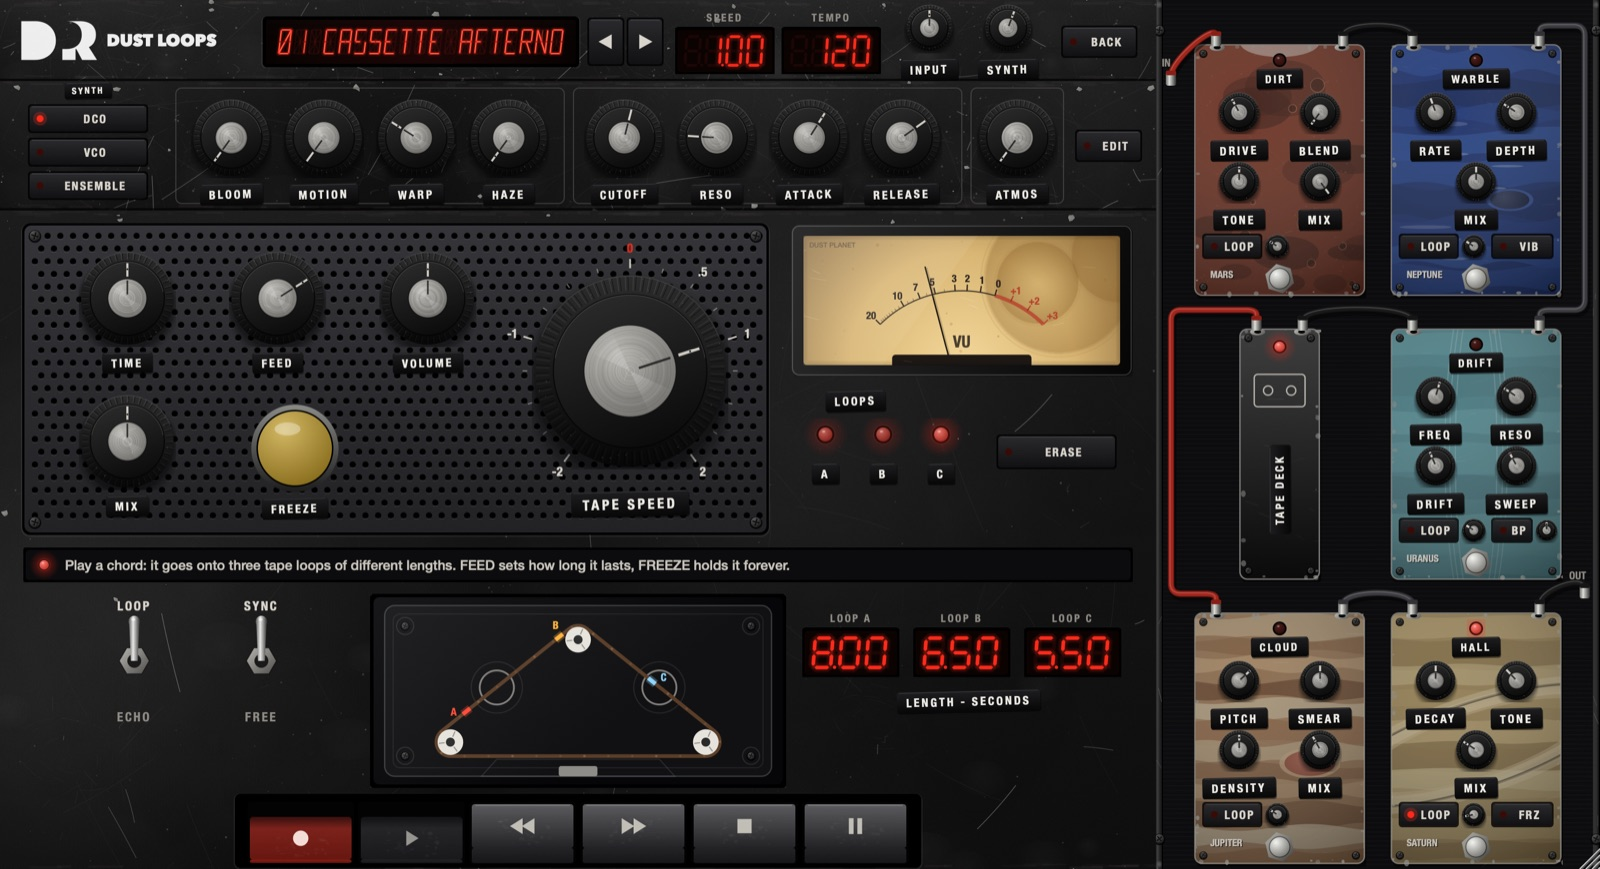
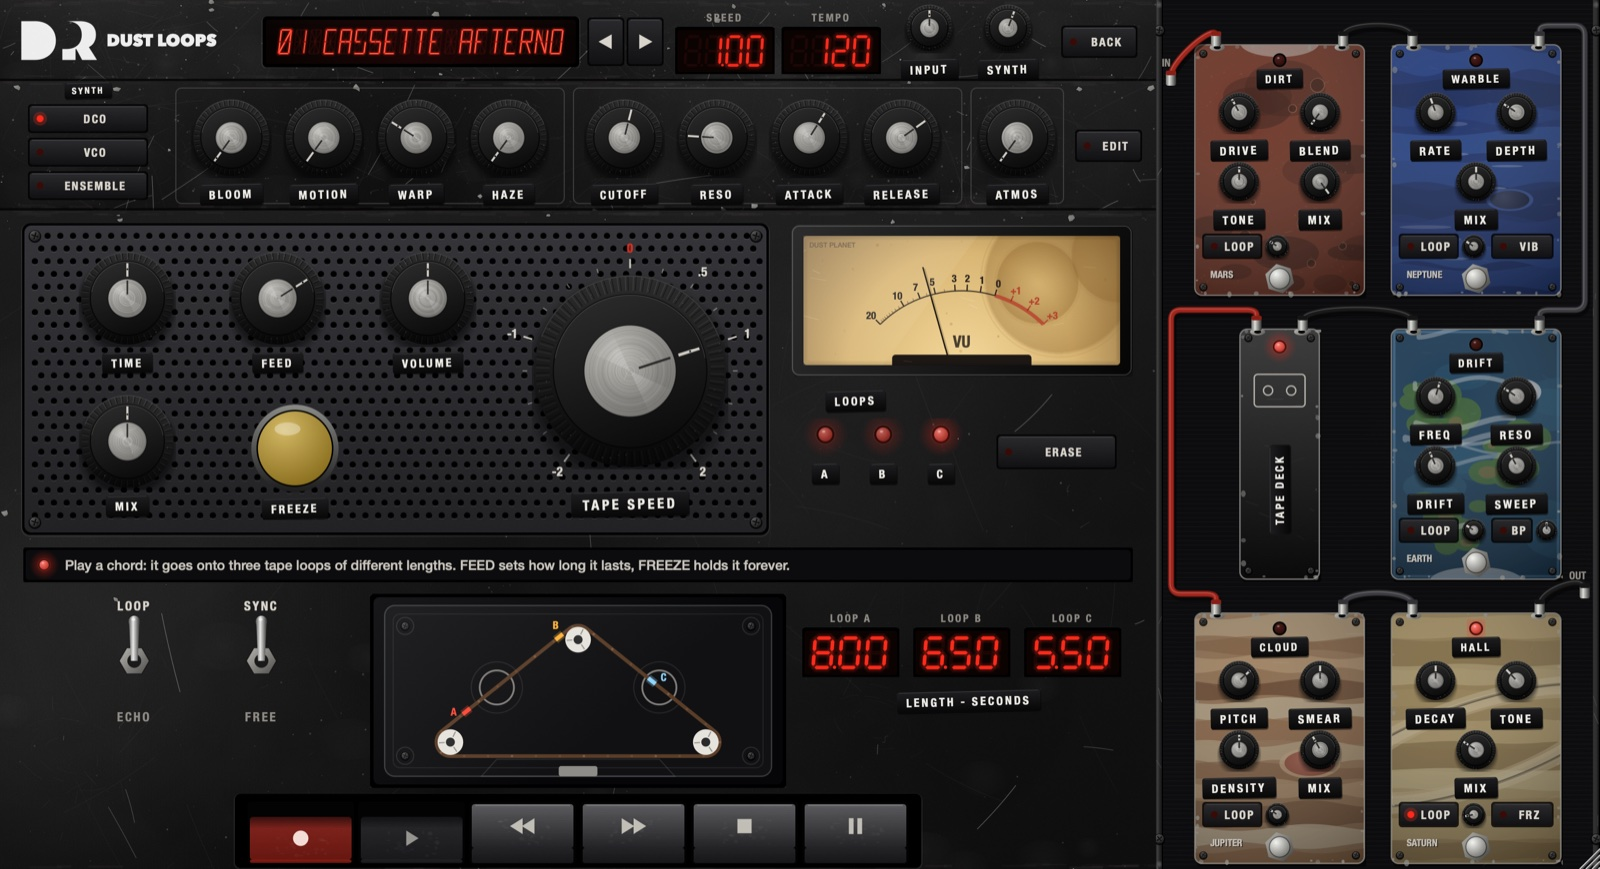
Loop gain governor stops recording loops building up; DRIFT pedal becomes Earth

Changed region(s): [[0.8438, 0.3728, 1.0, 0.6835]]

diff --git a/Source/Gui/PedalBoardView.cpp b/Source/Gui/PedalBoardView.cpp
@@ -41,7 +41,7 @@ const std::array<PedalDef, 5>& pedalDefs()
             { warble::depth, "Depth", "DEPTH: from gentle shimmer to seasick." },
             { warble::mix, "Mix", "MIX: how much wobble." } },
           warble::mode, "Vib", "VIB: lit = vibrato (pure pitch wobble). Off = chorus (wobble mixed with the dry sound).", nullptr, nullptr },
-        { "Drift", "Uranus", "DRIFT FILTER (Uranus): a resonant filter that sweeps very slowly on its own. Drag the pedal to move it.", Colour (0xff1d2a3a),
+        { "Drift", "Earth", "DRIFT FILTER (Earth): a resonant filter that sweeps very slowly on its own. Drag the pedal to move it.", Colour (0xff1d2a3a),
           { { drift::freq, "Freq", "FREQ: where the filter sits." },
             { drift::reso, "Reso", "RESO: resonance. High = whistling, vocal sweeps." },
             { drift::lfoRate, "Drift", "DRIFT: speed of the slow sweep, down to once every two minutes." },
@@ -132,7 +132,7 @@ void drawEnclosure (Graphics& g, Rectangle<float> b, Colour paint, int seed,
 
 //==============================================================================
 // Planet paint jobs: each pedal's face is a planet's surface, kept dark enough for the controls to read.
-enum class Planet { mars, neptune, uranus, jupiter, saturn };
+enum class Planet { mars, neptune, earth, jupiter, saturn };
 
 // Horizontal cloud bands with wavy edges.
 void drawBands (Graphics& g, Rectangle<float> a, const std::vector<Colour>& colours, int count, float wave, Random& r)
@@ -208,14 +208,53 @@ void drawPlanetSurface (Graphics& g, Rectangle<float> a, Planet planet, int seed
             drawStorm (g, { a.getX() + a.getWidth() * 0.7f, a.getY() + a.getHeight() * 0.62f }, 34.0f, 16.0f,
                        Colour (0xff0b1a48), Colour (0xff3d63c0));
             break;
-        case Planet::uranus:
+        case Planet::earth:
         {
-            g.fillAll (Colour (0xff4f8e98));
-            drawBands (g, a, { Colour (0xff5c9ea7), Colour (0xff467f89), Colour (0xff63a8b0) }, 7, 1.5f, r);
-            // Uranus's rings stand on end
-            g.setColour (Colour (0xffd8f0f2).withAlpha (0.28f));
-            for (auto k : { 0.0f, 5.0f, 9.0f })
-                g.drawEllipse (a.getCentreX() - 18.0f - k, a.getY() - 30.0f - k * 2.0f, 36.0f + k * 2.0f, a.getHeight() + 60.0f + k * 4.0f, 1.0f);
+            g.fillAll (Colour (0xff123a5c)); // deep ocean
+            for (int i = 0; i < 10; ++i)     // shallower water
+            {
+                const auto w = 30.0f + 50.0f * r.nextFloat();
+                g.setColour (Colour (0xff1f5a7e).withAlpha (0.35f + 0.2f * r.nextFloat()));
+                g.fillEllipse (a.getX() + r.nextFloat() * a.getWidth() - w * 0.3f, a.getY() + r.nextFloat() * a.getHeight(), w, w * 0.5f);
+            }
+            // Continents: clusters of blobs, green with dry brown interiors
+            const Point<float> landCentres[] { { 0.25f, 0.32f }, { 0.72f, 0.5f }, { 0.35f, 0.78f } };
+            for (auto lc : landCentres)
+            {
+                const auto c = Point<float> (a.getX() + lc.x * a.getWidth(), a.getY() + lc.y * a.getHeight());
+                for (int k = 0; k < 9; ++k)
+                {
+                    const auto w = 14.0f + 26.0f * r.nextFloat(), h = w * (0.5f + 0.5f * r.nextFloat());
+                    const auto x = c.x + (r.nextFloat() - 0.5f) * 50.0f, y = c.y + (r.nextFloat() - 0.5f) * 36.0f;
+                    g.setColour (Colour (0xff3d6b34).withAlpha (0.9f));
+                    g.fillEllipse (x - w * 0.5f, y - h * 0.5f, w, h);
+                    if (k % 3 == 0)
+                    {
+                        g.setColour (Colour (0xff7d6a40).withAlpha (0.7f));
+                        g.fillEllipse (x - w * 0.25f, y - h * 0.25f, w * 0.5f, h * 0.5f);
+                    }
+                }
+            }
+            // Weather: thin white cloud swirls drifting across
+            for (int i = 0; i < 8; ++i)
+            {
+                const auto y0 = a.getY() + r.nextFloat() * a.getHeight();
+                const auto x0 = a.getX() - 10.0f + r.nextFloat() * a.getWidth() * 0.6f;
+                const auto len = 50.0f + 80.0f * r.nextFloat(), phase = r.nextFloat() * 6.28f;
+                Path swirl;
+                swirl.startNewSubPath (x0, y0);
+                for (float t = 0.0f; t <= len; t += 4.0f)
+                    swirl.lineTo (x0 + t, y0 + 5.0f * std::sin (t * 0.06f + phase));
+                g.setColour (Colours::white.withAlpha (0.25f + 0.25f * r.nextFloat()));
+                g.strokePath (swirl, PathStrokeType (2.0f + 3.0f * r.nextFloat(), PathStrokeType::curved, PathStrokeType::rounded));
+            }
+            drawStorm (g, { a.getX() + a.getWidth() * 0.78f, a.getY() + a.getHeight() * 0.25f }, 26.0f, 18.0f,
+                       Colour (0xffeef4f8).withAlpha (0.55f), Colours::white.withAlpha (0.2f)); // a cyclone
+            g.setColour (Colour (0xffeef4f8).withAlpha (0.6f)); // polar ice
+            g.fillEllipse (a.getCentreX() - 40.0f, a.getBottom() - 10.0f, 80.0f, 24.0f);
+            // A thin blue atmosphere along the edge
+            g.setColour (Colour (0xff7fc4ff).withAlpha (0.35f));
+            g.drawRect (a.reduced (1.0f), 2.0f);
             break;
         }
         case Planet::jupiter:

diff --git a/tests/RobustnessTests.cpp b/tests/RobustnessTests.cpp
@@ -53,6 +53,47 @@ void prepareAt (DustLoopsProcessor& p, double rate, int block = blockSize)
     p.prepareToPlay (rate, block);
 }
 
+// Worst case for feedback: FEED at max and every pedal on and in the loop at full amount. Records a chord
+// on loop A, keeps A recording (or not), plays nothing more, and returns the tape level at the start
+// and a minute later.
+std::pair<float, float> buildUp (DustLoopsProcessor& p, bool keepRecording)
+{
+    prepareAt (p, 48000.0);
+    setParam (p, ID::tape::mix, 1.0f);
+    setParam (p, ID::tape::feed, 1.0f);
+    setParam (p, ID::synth::release, 0.05f);
+    for (int i = 0; i < 5; ++i)
+    {
+        setParam (p, ID::pedal::id (i, ID::pedal::on), 1.0f);
+        setParam (p, ID::pedal::id (i, ID::pedal::loop), 1.0f);
+        setParam (p, ID::pedal::id (i, ID::pedal::loopAmt), 1.0f);
+    }
+    setParam (p, ID::loop::rec[1], 0.0f);
+    setParam (p, ID::loop::rec[2], 0.0f);
+
+    juce::AudioBuffer<float> buffer (2, blockSize);
+    juce::MidiBuffer midi;
+    for (int note : { 48, 55, 60, 64 })
+        midi.addEvent (juce::MidiMessage::noteOn (1, note, 0.6f), 0);
+    for (int b = 0; b < (int) (2.0 * 48000.0 / blockSize); ++b)
+    {
+        buffer.clear();
+        p.processBlock (buffer, midi);
+        midi.clear();
+    }
+    for (int note : { 48, 55, 60, 64 })
+        midi.addEvent (juce::MidiMessage::noteOff (1, note), 0);
+    buffer.clear();
+    p.processBlock (buffer, midi);
+    if (! keepRecording)
+        setParam (p, ID::loop::rec[0], 0.0f);
+
+    const auto start = tapeLevel (p, 48000.0, 10.0f);
+    for (int pass = 0; pass < 5; ++pass)
+        tapeLevel (p, 48000.0, 10.0f);
+    return { start, tapeLevel (p, 48000.0, 10.0f) };
+}
+
 class RobustnessTests : public juce::UnitTest
 {
 public:
@@ -165,41 +206,17 @@ public:
         beginTest ("with recording off, the tape never builds up, even at full FEED with every pedal in the loop");
         {
             DustLoopsProcessor p;
-            prepareAt (p, 48000.0);
-            setParam (p, ID::tape::mix, 1.0f);
-            setParam (p, ID::tape::feed, 1.0f);
-            for (int i = 0; i < 5; ++i)
-            {
-                setParam (p, ID::pedal::id (i, ID::pedal::on), 1.0f);
-                setParam (p, ID::pedal::id (i, ID::pedal::loop), 1.0f);
-                setParam (p, ID::pedal::id (i, ID::pedal::loopAmt), 1.0f);
-            }
-
-            // Record a chord on loop A only, then stop recording.
-            setParam (p, ID::loop::rec[1], 0.0f);
-            setParam (p, ID::loop::rec[2], 0.0f);
-            juce::AudioBuffer<float> buffer (2, blockSize);
-            juce::MidiBuffer midi;
-            for (int note : { 48, 55, 60, 64 })
-                midi.addEvent (juce::MidiMessage::noteOn (1, note, 0.6f), 0);
-            for (int b = 0; b < (int) (2.0 * 48000.0 / blockSize); ++b)
-            {
-                buffer.clear();
-                p.processBlock (buffer, midi);
-                midi.clear();
-            }
-            for (int note : { 48, 55, 60, 64 })
-                midi.addEvent (juce::MidiMessage::noteOff (1, note), 0);
-            buffer.clear();
-            p.processBlock (buffer, midi);
-            setParam (p, ID::loop::rec[0], 0.0f);
-
-            const auto start = tapeLevel (p, 48000.0, 10.0f);
-            for (int pass = 0; pass < 5; ++pass)
-                tapeLevel (p, 48000.0, 10.0f);
-            const auto later = tapeLevel (p, 48000.0, 10.0f);
+            const auto [start, later] = buildUp (p, false);
             expectGreaterThan (start, 0.001f, "nothing was recorded");
             expectLessThan (later, start * 1.05f, "the tape got louder with recording off");
+        }
+
+        beginTest ("a recording loop doesn't build up on its own either, at full FEED with every pedal in the loop");
+        {
+            DustLoopsProcessor p;
+            const auto [start, later] = buildUp (p, true);
+            expectGreaterThan (start, 0.001f, "nothing was recorded");
+            expectLessThan (later, start * 1.1f, "the tape got louder while recording silence");
         }
 
         beginTest ("presets never change which loops record");

diff --git a/Source/Tape/TapeMachine.h b/Source/Tape/TapeMachine.h
@@ -13,7 +13,8 @@
 // what was recorded at 0.5x plays an octave up at 1x, a stopping tape slides down in pitch and goes
 // quiet. Every time a cell passes the head it is played, worn (age, saturation, dropouts) and scaled
 // by FEED, so an unarmed loop can only stay the same or fade. Only an armed (recording) loop gets
-// anything added: new input, record hiss and the pedals in the loop, limited so it can never run away.
+// anything added: new input, record hiss and the pedals in the loop. A governor keeps what is
+// re-recorded from the old tape no louder than it was, so the loop never builds up on its own.
 //
 // All memory is allocated in prepare(); process() never allocates, locks or does I/O.
 namespace dust
@@ -97,6 +98,7 @@ public:
         for (auto& l : loops)
         {
             l.limiter.prepare (sr);
+            l.governor.prepare (sr);
             l.wear = {};
             l.clearCursor = -1;
         }
@@ -309,6 +311,7 @@ private:
         int length = 1;
         double position = 0.0;
         FeedbackLimiter limiter;
+        LoopGainGovernor governor;
         WearState wear;
         int clearCursor = -1; // >= 0 while a clear is in progress
     };
@@ -458,14 +461,19 @@ private:
                 {
                     const auto cell = (size_t) wrap (dir > 0 ? k0 + j : k0 - j + 1, len) * 2;
                     const auto frac = (float) j / (float) steps;
-                    auto cl = l.data[cell], cr = l.data[cell + 1];
+                    const auto oldL = l.data[cell], oldR = l.data[cell + 1];
+                    auto cl = oldL, cr = oldR;
                     wearCell (l.wear, cl, cr, wear, ls.armed);
                     cl *= feed;
                     cr *= feed;
                     if (ls.armed)
                     {
-                        cl += injL + prevIn[0] + frac * (inL - prevIn[0]);
-                        cr += injR + prevIn[1] + frac * (inR - prevIn[1]);
+                        // The pedals' copy goes on with the old tape, never louder than it was.
+                        cl += injL;
+                        cr += injR;
+                        const auto g = l.governor.process (oldL, oldR, cl, cr);
+                        cl = cl * g + prevIn[0] + frac * (inL - prevIn[0]);
+                        cr = cr * g + prevIn[1] + frac * (inR - prevIn[1]);
                     }
                     l.limiter.process (cl, cr);
                     l.data[cell] = cl;

diff --git a/Source/DSP/Safety.h b/Source/DSP/Safety.h
@@ -64,6 +64,41 @@ private:
 };
 
 //==============================================================================
+// Keeps a recording loop from growing on its own. It compares the level of what was on the tape with
+// the level of what is about to be re-recorded from it (worn, scaled by FEED, pedals added) and turns
+// the re-recorded part down whenever it would come back louder. The pedals still change the sound on
+// every pass; only the level is held, so nothing piles up into a howl. New input is added after this.
+class LoopGainGovernor
+{
+public:
+    void prepare (float sampleRate) noexcept
+    {
+        levelCoef = 1.0f - std::exp (-1.0f / (0.25f * sampleRate));
+        downCoef = 1.0f - std::exp (-1.0f / (0.005f * sampleRate));
+        upCoef = 1.0f - std::exp (-1.0f / (0.08f * sampleRate));
+        reset();
+    }
+
+    void reset() noexcept { before = after = 0.0f; gain = 1.0f; }
+
+    // Returns the gain for the re-recorded frame.
+    float process (float oldL, float oldR, float newL, float newR) noexcept
+    {
+        before += levelCoef * (0.5f * (oldL * oldL + oldR * oldR) - before);
+        after += levelCoef * (0.5f * (newL * newL + newR * newR) - after);
+        before = sanitize (before);
+        after = sanitize (after);
+        const auto target = after > before && after > 1.0e-12f ? std::sqrt (before / after) : 1.0f;
+        gain += (target < gain ? downCoef : upCoef) * (target - gain);
+        return gain;
+    }
+
+private:
+    float before = 0.0f, after = 0.0f, gain = 1.0f;
+    float levelCoef = 0.0f, downCoef = 0.0f, upCoef = 0.0f;
+};
+
+//==============================================================================
 // Output safety: instant-attack peak limiter at -0.3 dBFS with a smooth release, then a hard ceiling.
 // Transparent at sane levels; only there to catch accidents.
 class OutputLimiter

diff --git a/README.md b/README.md
@@ -57,7 +57,7 @@ Play a chord. It goes onto three tape loops of different lengths, so the repeats
 - **Pedalboard.** Five pedals, each painted as a planet:
   - **Dirt** (Mars)
   - **Warble** (Neptune)
-  - **Drift** filter (Uranus)
+  - **Drift** filter (Earth)
   - **Cloud** granular shimmer (Jupiter)
   - **Hall** reverb (Saturn)
 
@@ -157,7 +157,7 @@ Logic's own preset menu (top of the plugin window) also lists the factory preset
    - tape type, wow, flutter, hiss, saturation, age and dropouts
    - inertia, brake time and master level
 
-10. **Pedals** (to the right of the deck), each painted as a planet: DIRT is Mars, WARBLE Neptune, DRIFT Uranus, CLOUD Jupiter and HALL Saturn. Stomp the footswitch to turn a pedal on.
+10. **Pedals** (to the right of the deck), each painted as a planet: DIRT is Mars, WARBLE Neptune, DRIFT Earth, CLOUD Jupiter and HALL Saturn. Stomp the footswitch to turn a pedal on.
     - **LOOP** puts a copy of the pedal inside the tape loop, so its effect builds up on every pass. That's where the drones come from. The little trim next to it sets how much.
     - The signal snakes through the board: left to right along the top row, right to left along the middle row, left to right along the bottom row, from IN to OUT. The cables show the route.
     - Drag a pedal by its body to any spot to move it. Pedals before the **TAPE DECK** block go onto the tape; pedals after it colour what comes off it.

diff --git a/CHANGELOG.md b/CHANGELOG.md
@@ -5,7 +5,9 @@
   - Now only an armed loop gets anything added: new input, record hiss and the in-loop pedals.
   - A loop that isn't recording can only stay the same (FEED at max) or fade (lower FEED).
   - ECHO mode is unchanged, because a tape echo always records.
-- New test: with recording off, FEED at max and every pedal in the loop at full amount, the tape level never rises.
+- **No more runaway feedback while recording either.** Each loop now has a governor: what gets re-recorded from the old tape (worn, scaled by FEED, plus the in-loop pedals) can never come back louder than it was. Pedals still change the sound on every pass, but the level holds. Anything new you play still goes on top, so overdubbing works as before.
+- **DRIFT is now Earth:** oceans, green and brown continents, cloud swirls, polar ice and a thin blue atmosphere, replacing Uranus.
+- New tests at FEED max with every pedal in the loop at full amount: the tape level never rises, with recording off or with a loop recording silence. Without the governor, the recording case doubled in a minute.
 
 ## Distribution (2026-10-28)
 - **Download and install without building.** GitHub Releases now carry a zip with both plugins, a double-click **Install Dust Loops.command** and **Uninstall Dust Loops.command**, and a READ ME FIRST. The installer:
